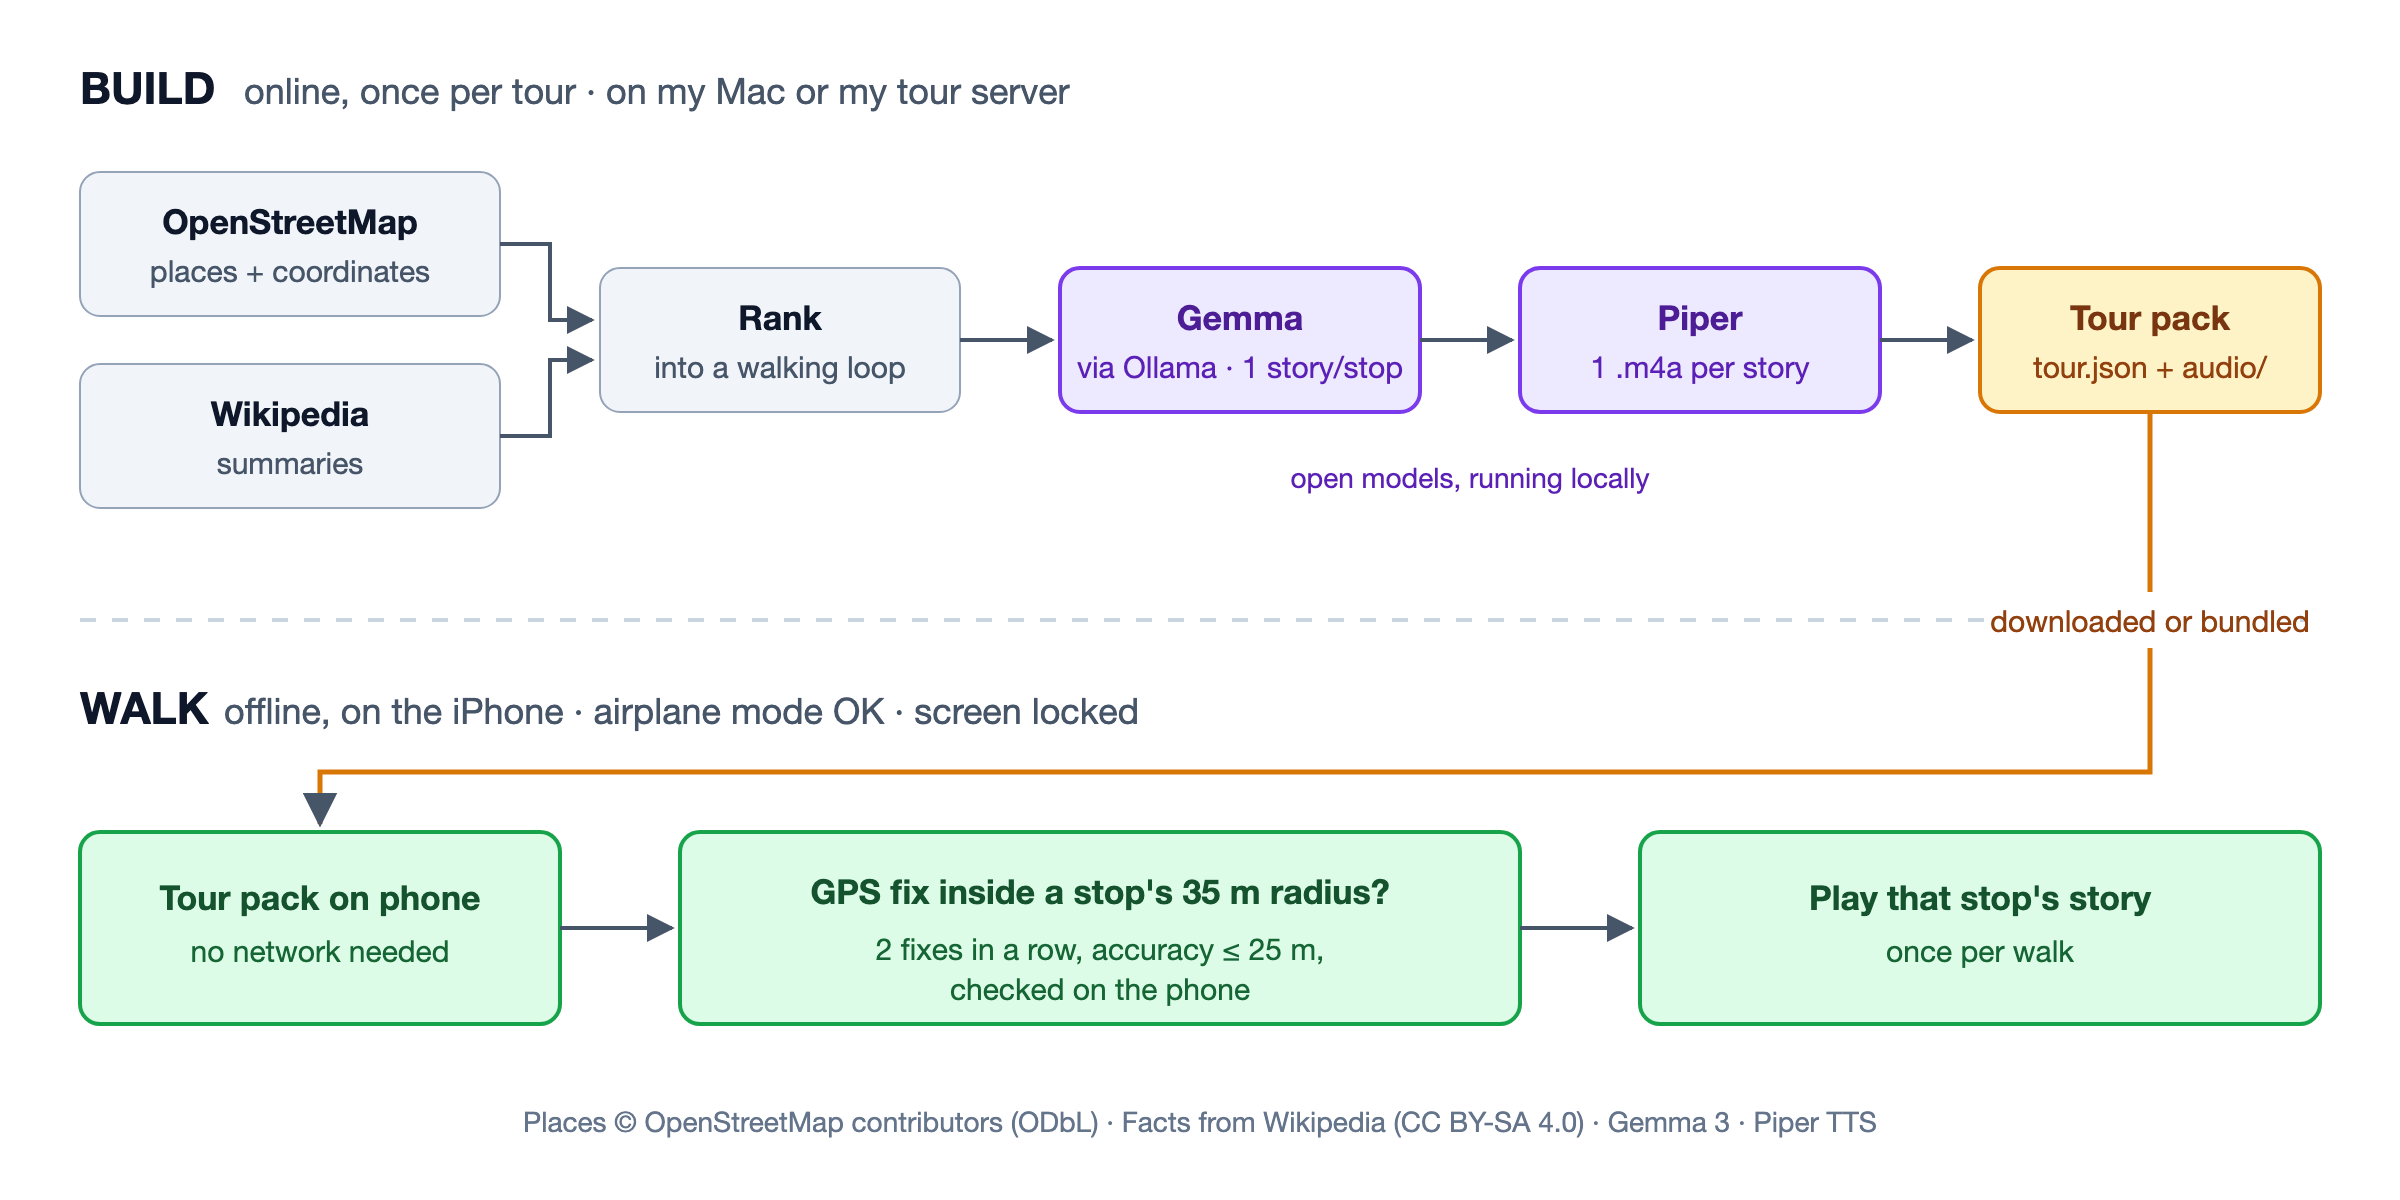
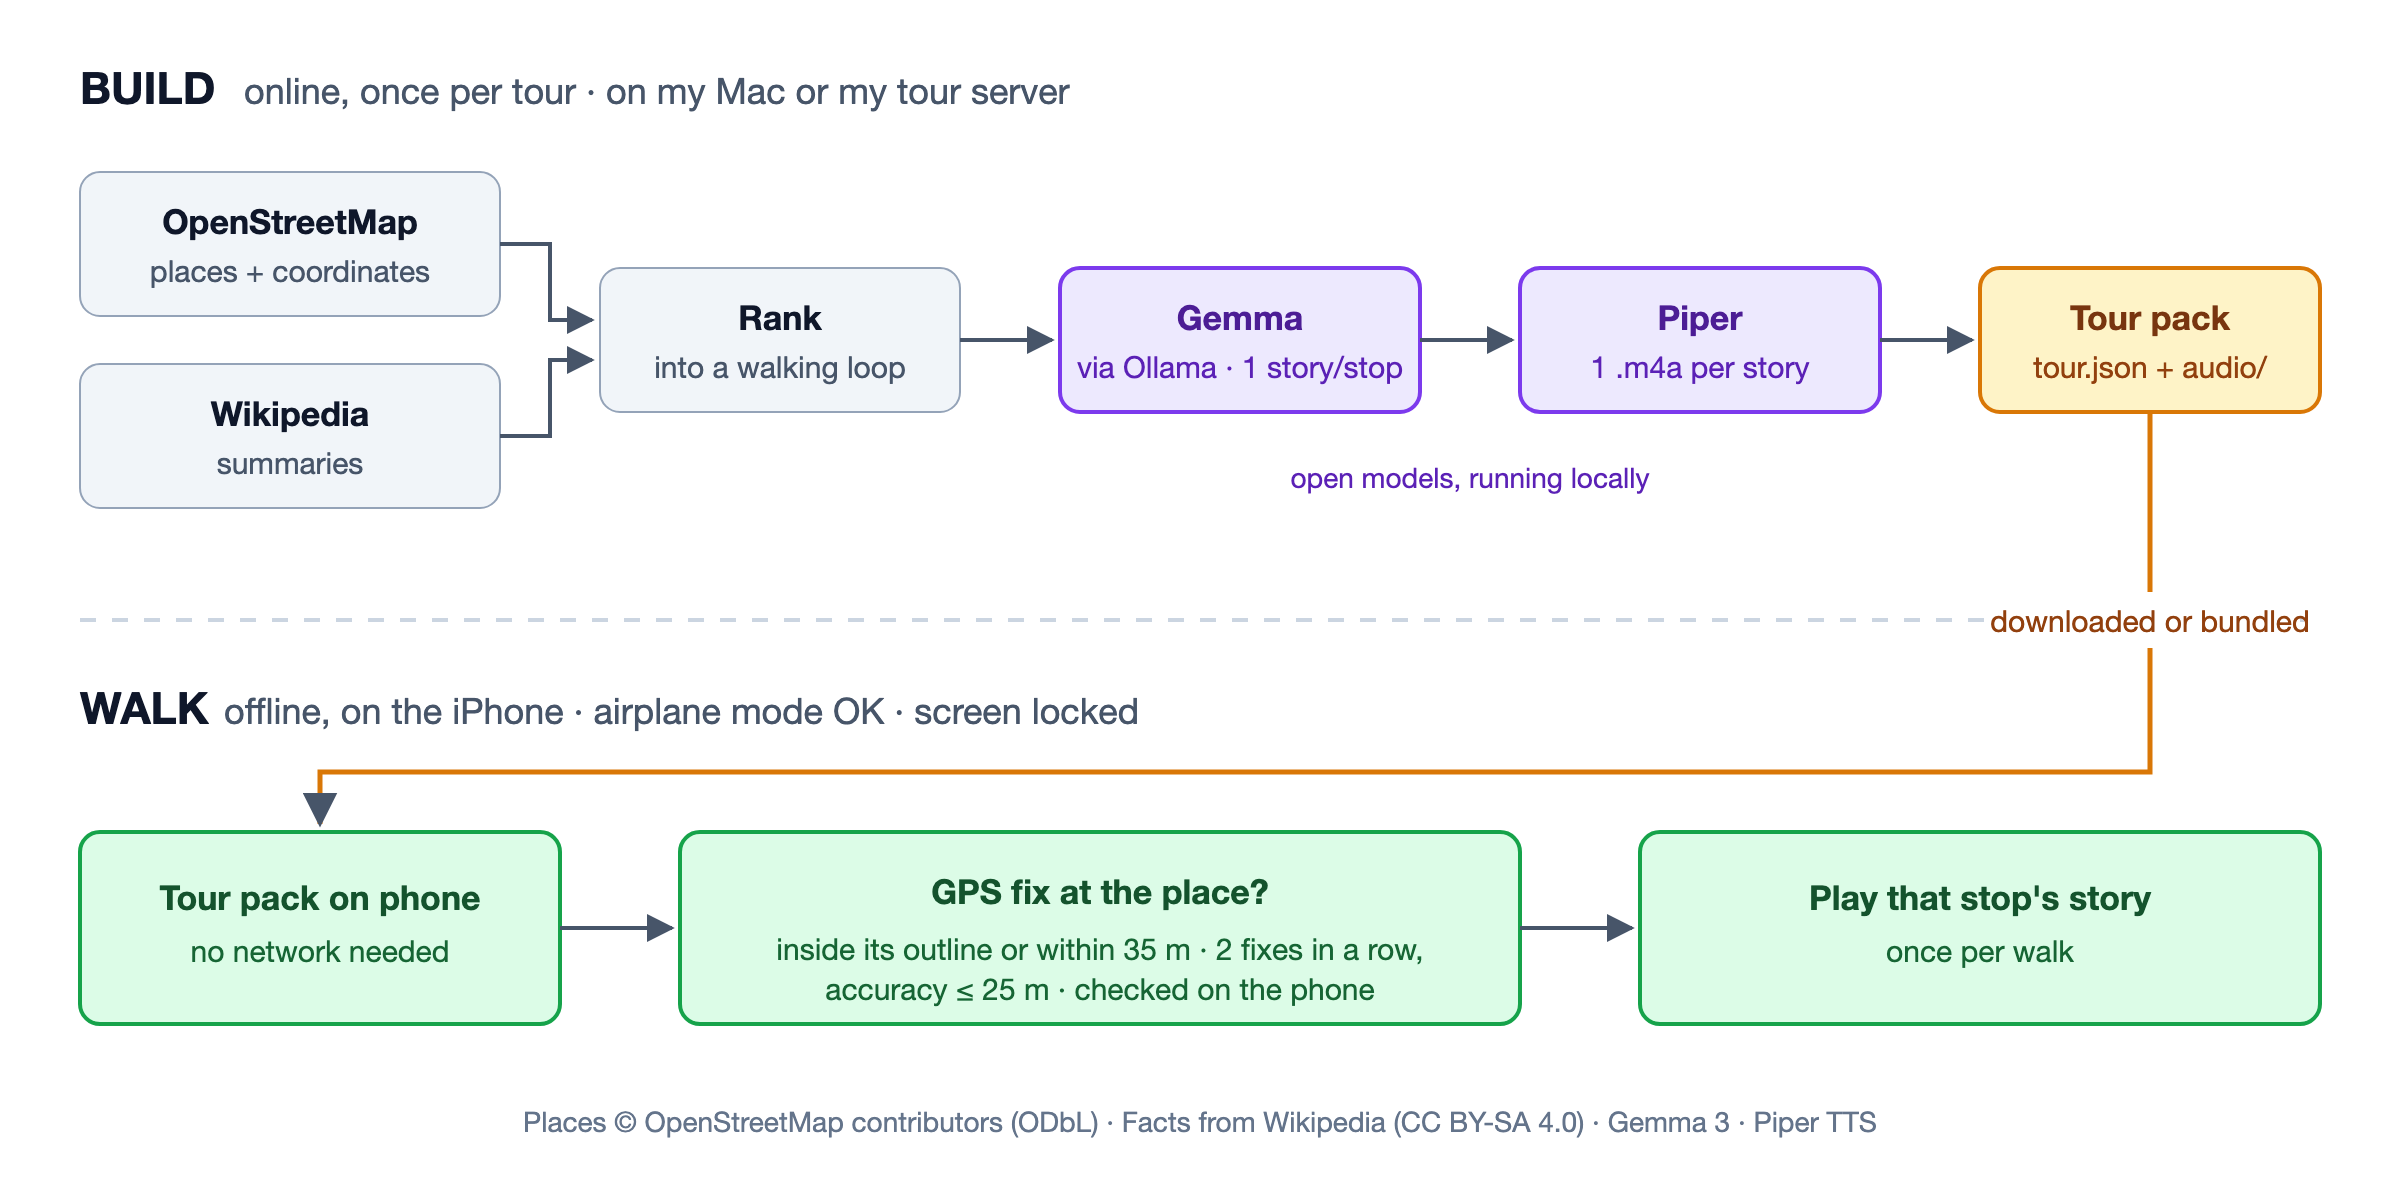
Update README with test count and replace architecture image

Changed region(s): [[0.3125, 0.7092, 0.5938, 0.8325]]

diff --git a/README.md b/README.md
@@ -58,7 +58,7 @@ Endpoints, Railway deployment and curl examples: [server/README.md](server/READM
 2. Copy `ios/WalkAndTalk/Secrets.example.swift` to `ios/WalkAndTalk/WalkAndTalk/App/Secrets.swift` (git-ignored). The defaults point at `http://localhost:8000` with key `dev-key`, which the Simulator reaches directly.
 3. Run on a Simulator or a phone. The bundled `mexicali2` tour works with no server at all.
 4. To fake a walk in the Simulator: Debug → Simulate Location → `ios/WalkAndTalk/GPX/mexicali2-walk.gpx`.
-5. Tests: ⌘U (19 unit tests). Field-test procedure: [docs/walk-test.md](docs/walk-test.md).
+5. Tests: ⌘U (24 unit tests). Field-test procedure: [docs/walk-test.md](docs/walk-test.md).
 
 ## Layout
 
